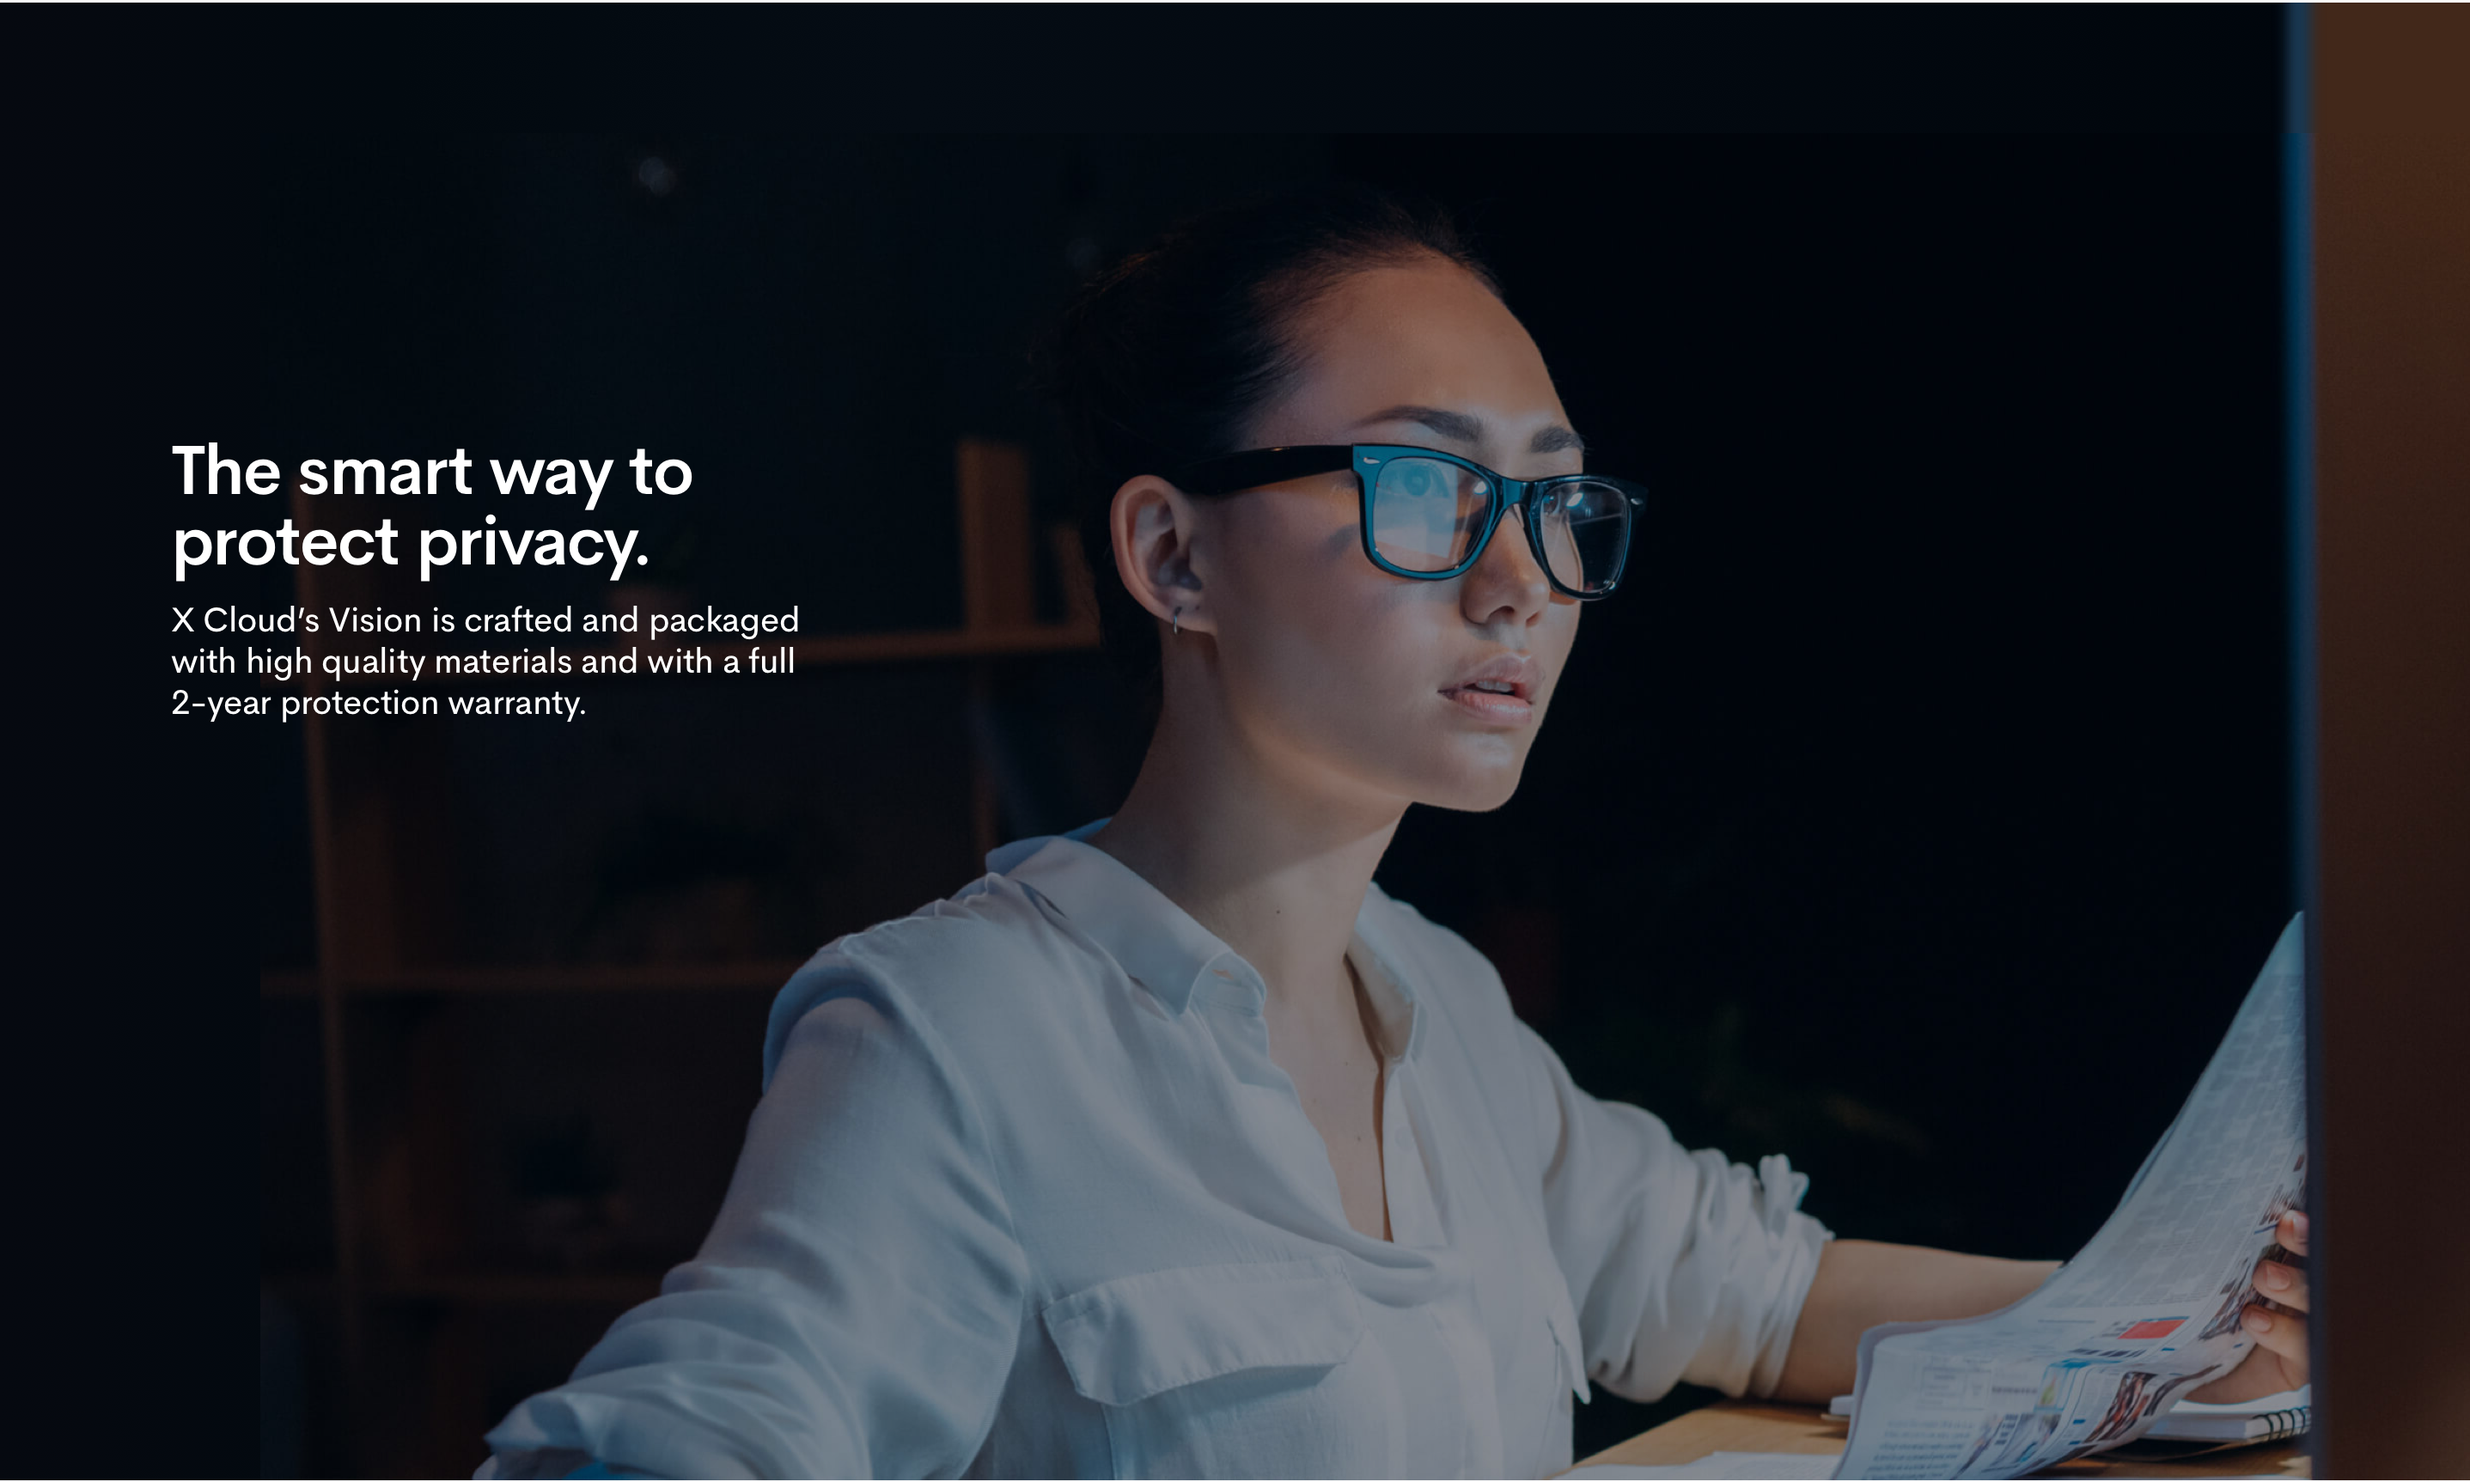
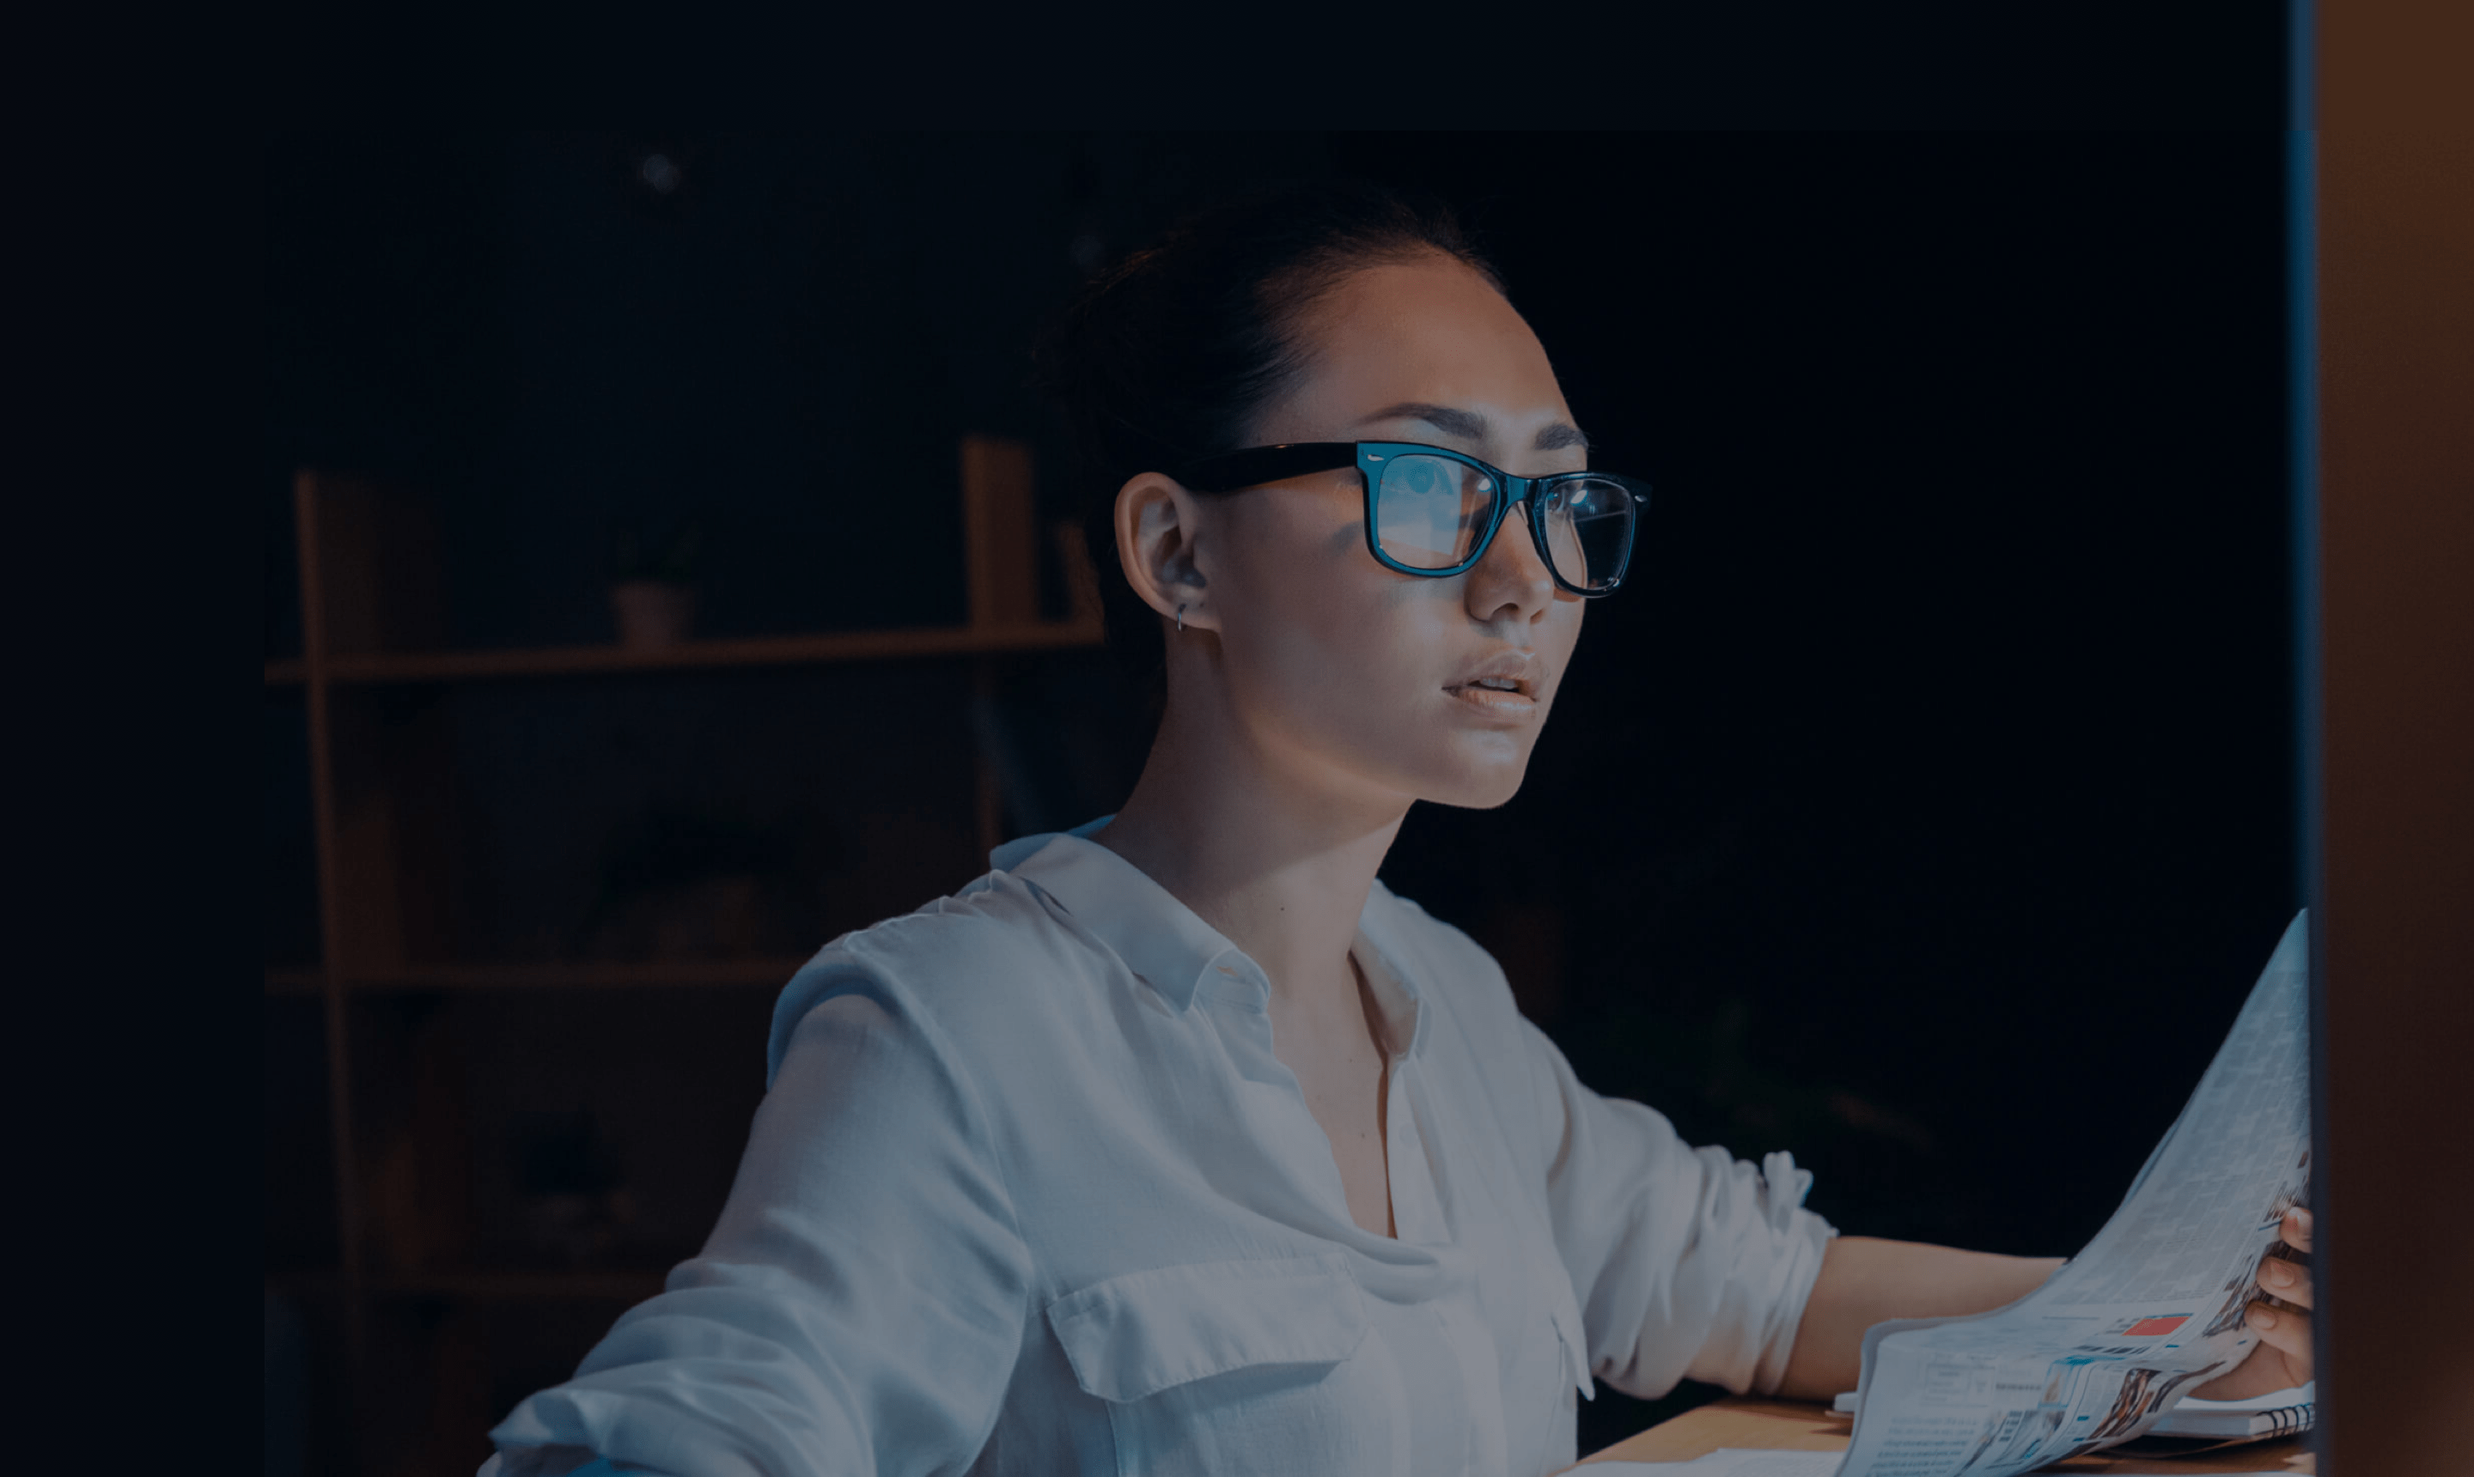
add mobile and desktop background images for X Cloud Vision warranty section

diff --git a/resources/assets/sass/merchandise.scss b/resources/assets/sass/merchandise.scss
@@ -116,12 +116,13 @@
 			background-image: linear-gradient(to bottom, #060910, #02090f 16%, #050c14 37%, #00050b);
 			color: white;
 			height: 713px;
-			// background-image: url('/img/xcloud-vision-warranty.png');
+			background-image: url('/img/xcloud-vision-warranty_mobile.png');
 			background-repeat: no-repeat;
 			background-size: cover;
 			padding-top: 76px;
 
 			@include whenLargerThan('large-screen') {
+				background-image: url('/img/xcloud-vision-warranty.png');
 				padding-top: 200px;
 			}
 

diff --git a/public/css/internxt.css b/public/css/internxt.css
@@ -16595,6 +16595,7 @@ hr {
   background-image: linear-gradient(to bottom, #060910, #02090f 16%, #050c14 37%, #00050b);
   color: white;
   height: 713px;
+  background-image: url("/img/xcloud-vision-warranty_mobile.png");
   background-repeat: no-repeat;
   background-size: cover;
   padding-top: 76px;
@@ -16602,6 +16603,7 @@ hr {
 
 @media (min-width: 1080px) {
   #page-merchandise .section--vision-warranty {
+    background-image: url("/img/xcloud-vision-warranty.png");
     padding-top: 200px;
   }
 }
